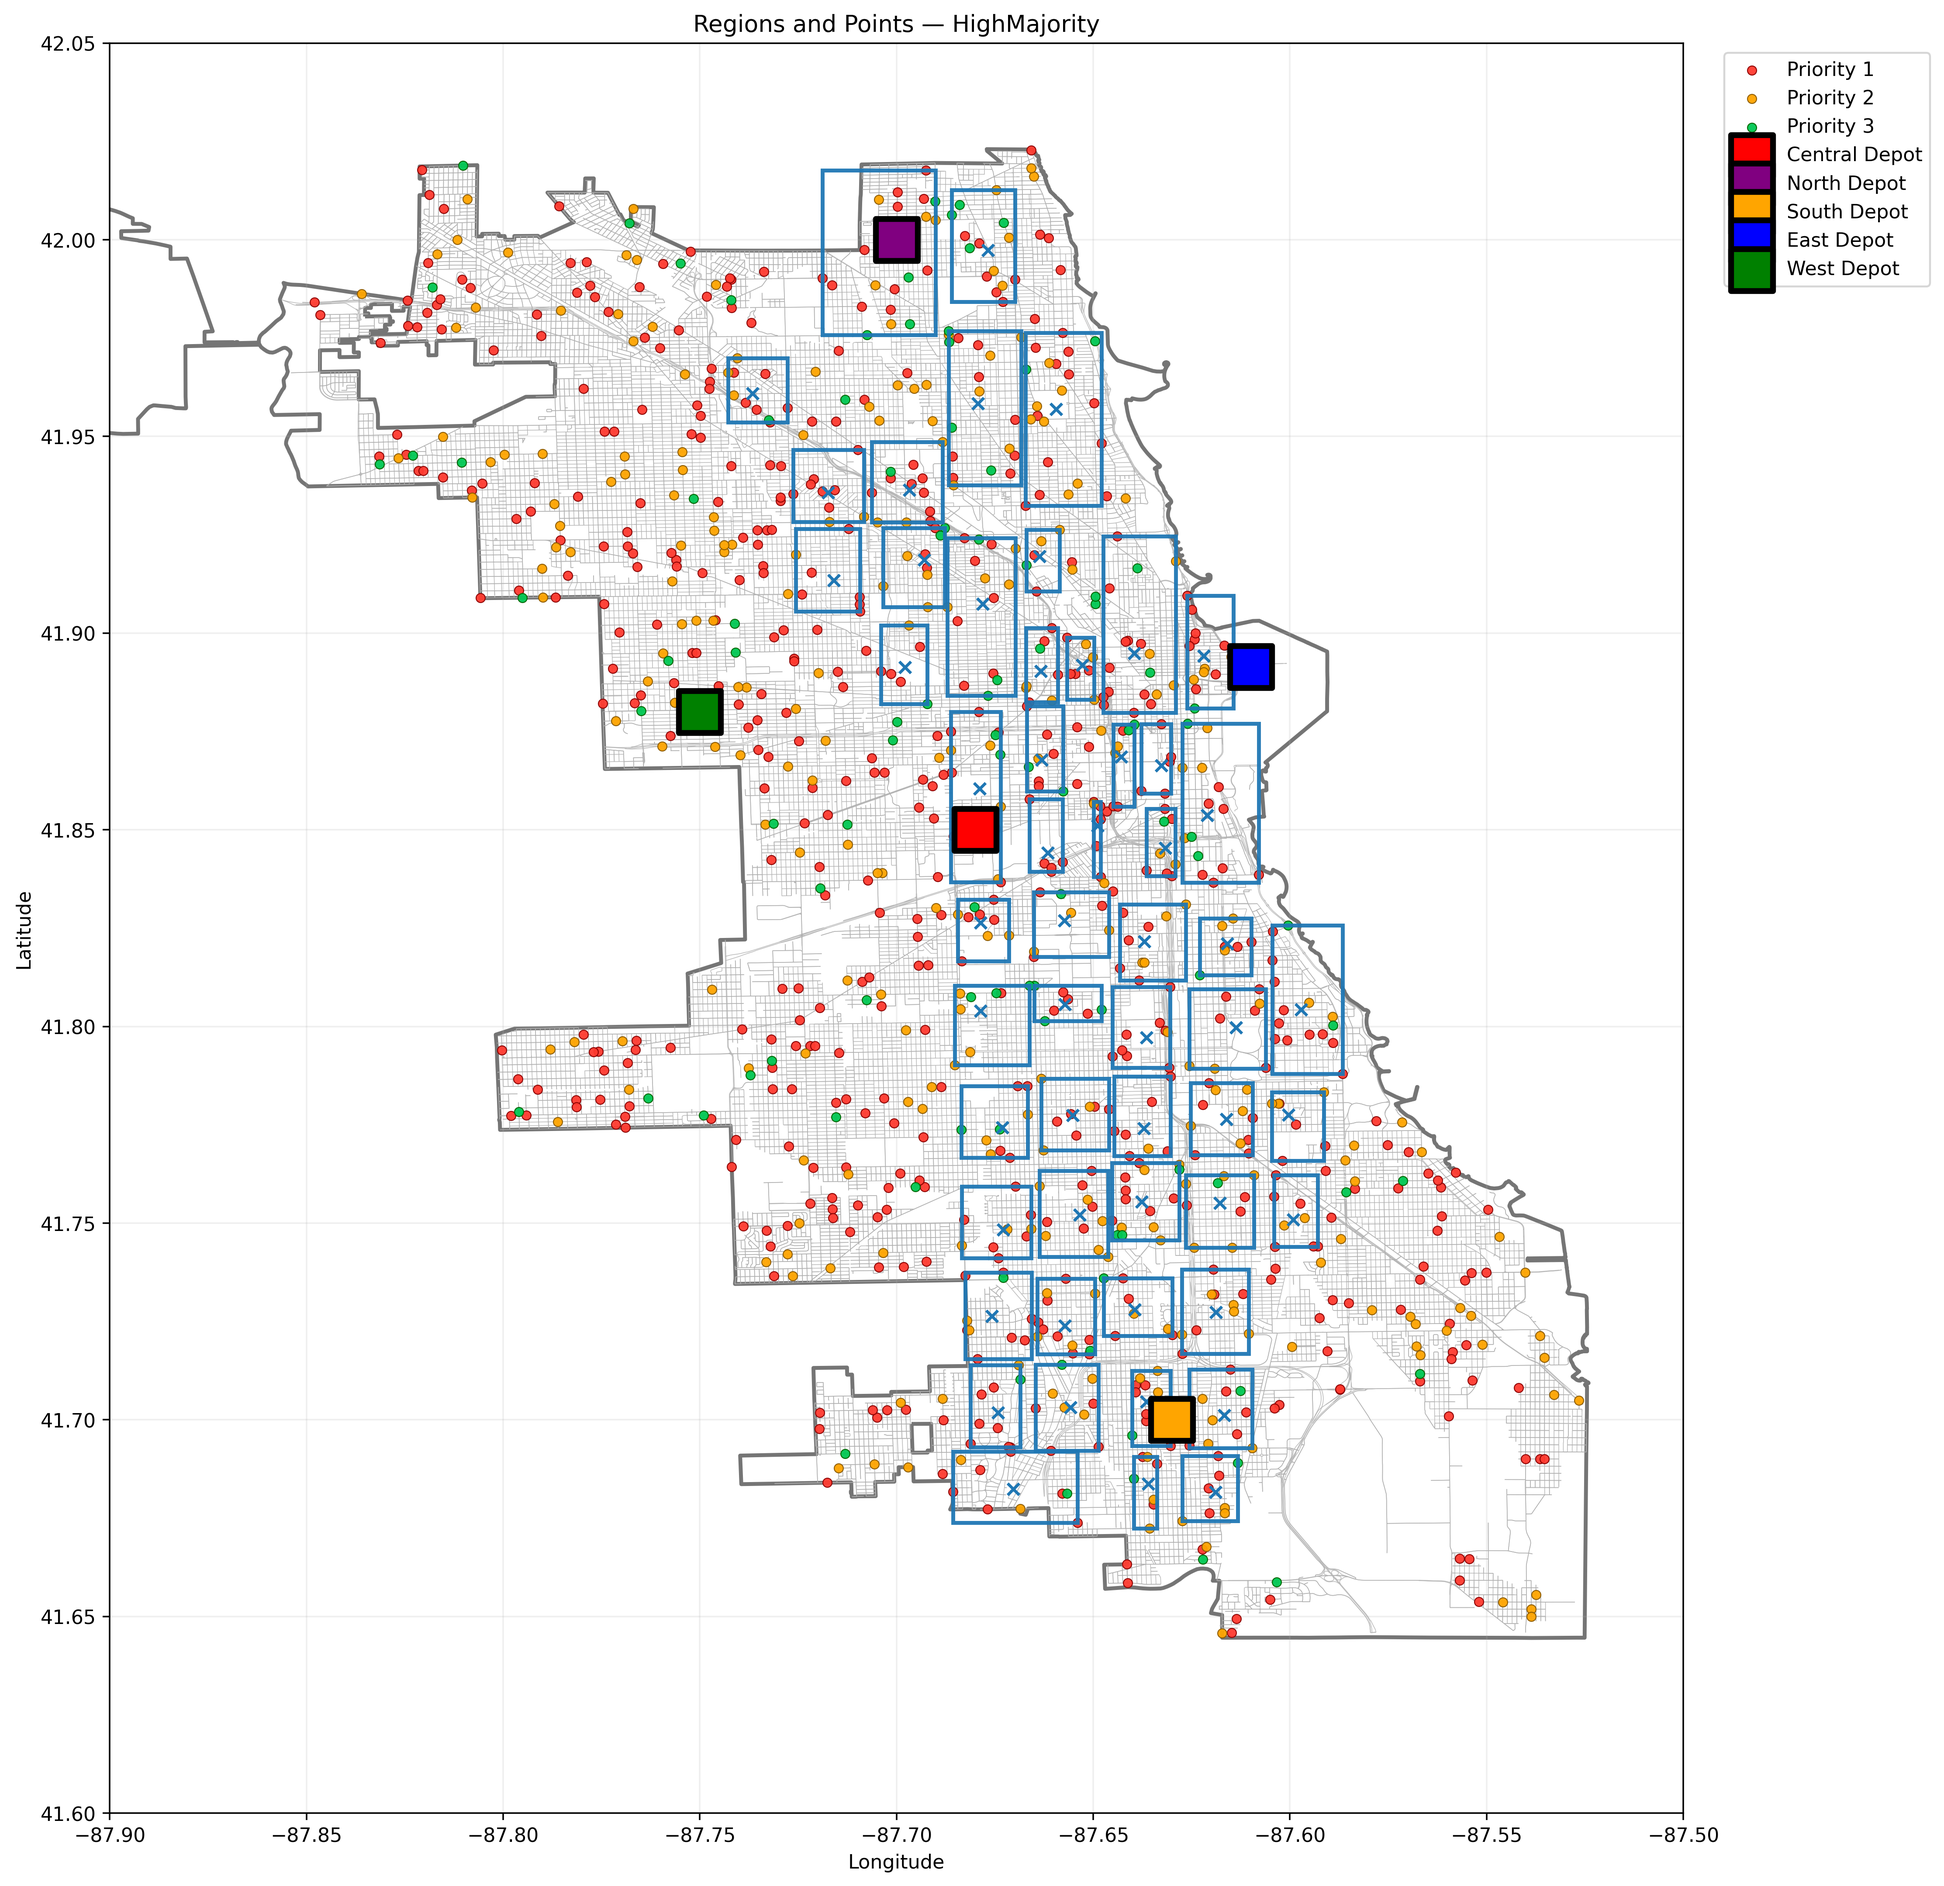
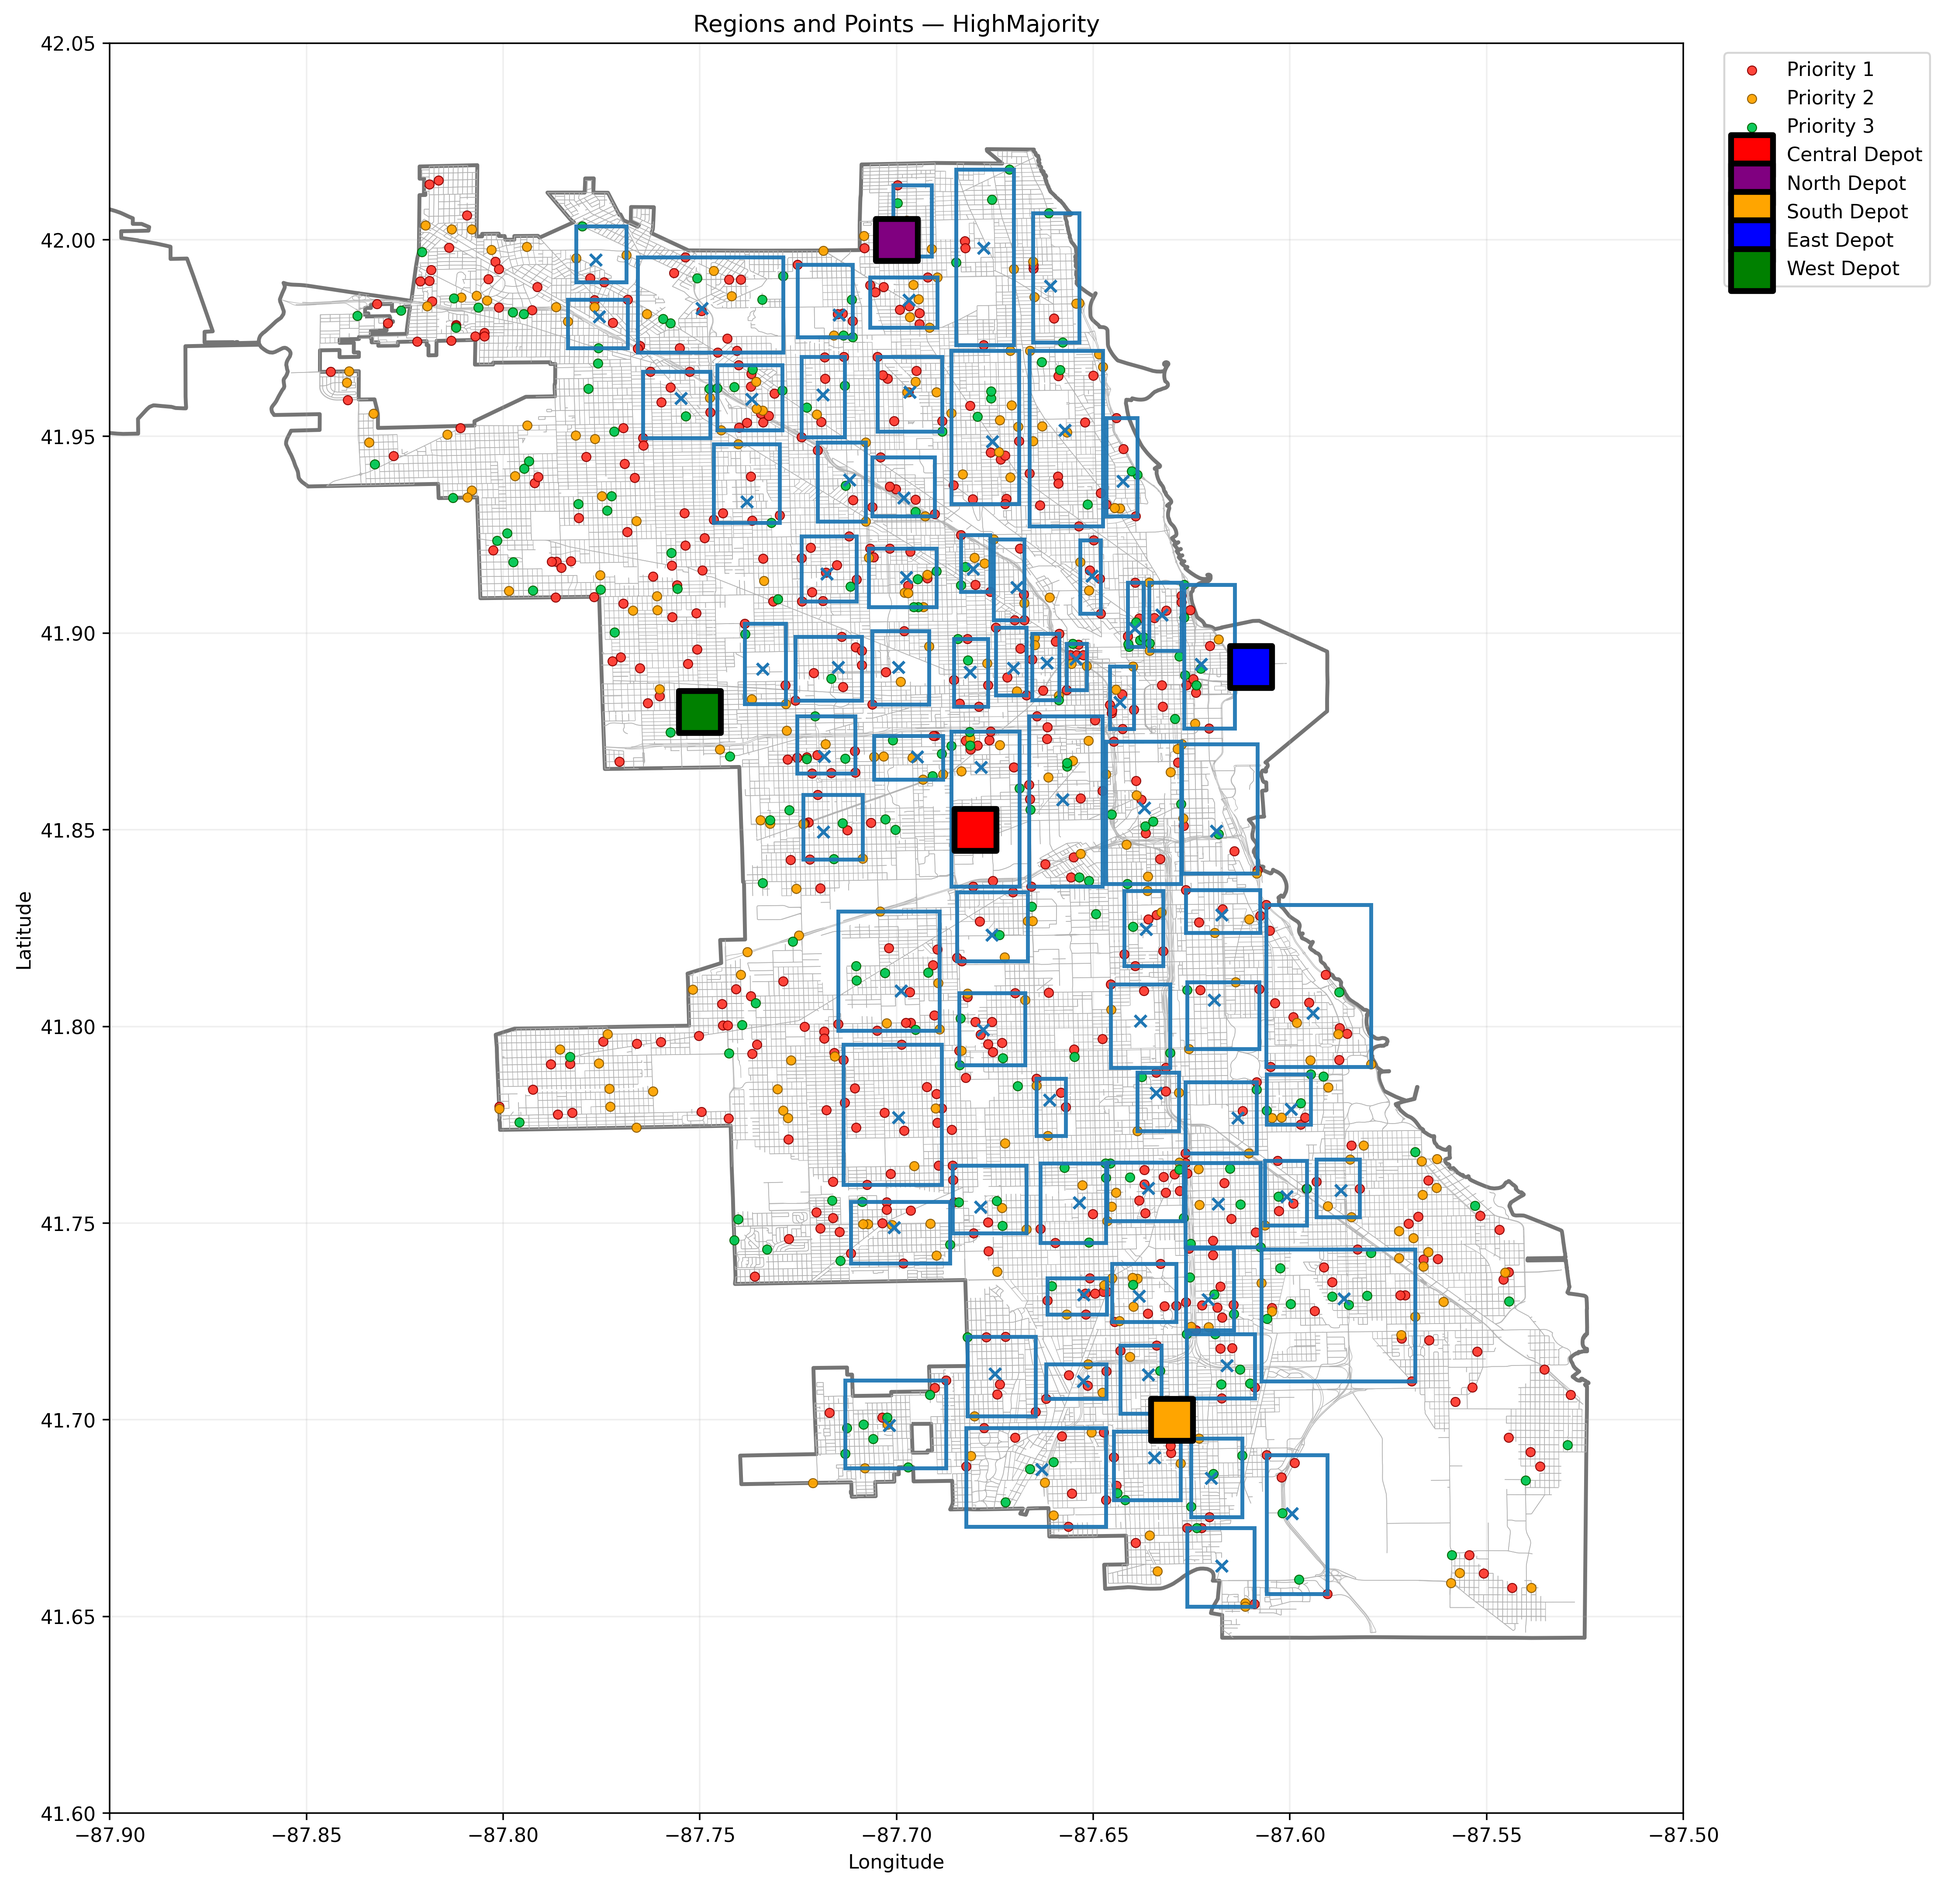
Final diving-and-conquer implementation Co-authored-by:Prashanna Raj Pandit <erprp99@gmail.com>

diff --git a/dataset/delivery points.py b/dataset/delivery points.py
@@ -73,55 +73,143 @@
 
 ######## Generating delivery points ###########
 
+######## Generating delivery points with distributions ###########
+
+# generate_delivery_points_variants.py
+# Generates multiple independent 1000-point delivery datasets per distribution.
+# Files: delivery_points_1000_<distribution>_v<1..5>.csv
+# Also writes generation_summary.csv with counts & percentages.
+
+# import os
+# import time
+# import random
+# import pandas as pd
+# import osmnx as ox
+
+# GRAPH_FILE = "chicago_street_network.graphml"
+
+# # Distributions: weights for priorities [P1, P2, P3]
+# DISTRIBUTIONS = {
+#     "equal":          [33, 33, 34],   # ~33% each
+#     "high_dominance": [50, 25, 25],   # P1 ~50%
+#     "low_dominance":  [25, 25, 50],   # P3 ~50%
+#     # Uncomment if you want a medium-dominance option:
+#     # "med_dominance":  [25, 50, 25], # P2 ~50%
+# }
+
+# # Which distributions to generate
+# DISTRIBUTIONS_TO_MAKE = ["equal", "high_dominance", "low_dominance"]
+
+# def generate_one_dataset(G, sample_size: int, weights: list[int], rng: random.Random):
+#     """Return a DataFrame of delivery points (lat, lon, priority) for one draw."""
+#     nodes_list = list(G.nodes())
+#     if sample_size > len(nodes_list):
+#         # Fallback: sample with replacement if graph is tiny (unlikely for Chicago)
+#         chosen_nodes = rng.choices(nodes_list, k=sample_size)
+#     else:
+#         chosen_nodes = rng.sample(nodes_list, sample_size)
+
+#     rows = []
+#     for node in chosen_nodes:
+#         rows.append({
+#             "node_id": node,
+#             "lat": G.nodes[node]["y"],
+#             "lon": G.nodes[node]["x"],
+#             "priority": rng.choices([1, 2, 3], weights=weights, k=1)[0]
+#         })
+#     return pd.DataFrame(rows)
+
+# def save_with_checks(df: pd.DataFrame, path: str):
+#     os.makedirs(os.path.dirname(path) or ".", exist_ok=True)
+#     df.to_csv(path, index=False)
+
+# def main(sample_size=1000, num_variants=5, out_dir=".", base_seed=20241004):
+#     print("Loading graph…")
+#     G = ox.load_graphml(GRAPH_FILE)
+#     print(f"Graph loaded with {len(G.nodes())} nodes, {len(G.edges())} edges.")
+
+#     summary_rows = []
+
+#     for dist_name in DISTRIBUTIONS_TO_MAKE:
+#         weights = DISTRIBUTIONS[dist_name]
+#         print(f"\n=== Generating {num_variants} datasets for '{dist_name}' "
+#               f"({sample_size} points each) ===")
+
+#         for i in range(1, num_variants + 1):
+#             # Reproducible RNG per variant & distribution
+#             seed = (base_seed * 1315423911) ^ hash((dist_name, i))
+#             rng = random.Random(seed)
+
+#             df = generate_one_dataset(G, sample_size, weights, rng)
+#             filename = os.path.join(out_dir, f"delivery_points_{sample_size}_{dist_name}_v{i}.csv")
+#             save_with_checks(df, filename)
+
+#             # Stats for summary
+#             counts = df["priority"].value_counts().reindex([1,2,3], fill_value=0)
+#             pcts = counts / len(df) * 100.0
+#             print(f"  [{dist_name} v{i}] saved → {filename} | "
+#                   f"P1={counts[1]}({pcts[1]:.1f}%), "
+#                   f"P2={counts[2]}({pcts[2]:.1f}%), "
+#                   f"P3={counts[3]}({pcts[3]:.1f}%)")
+
+#             summary_rows.append({
+#                 "file": os.path.basename(filename),
+#                 "distribution": dist_name,
+#                 "sample_size": len(df),
+#                 "P1_count": int(counts[1]),
+#                 "P2_count": int(counts[2]),
+#                 "P3_count": int(counts[3]),
+#                 "P1_pct": round(pcts[1], 2),
+#                 "P2_pct": round(pcts[2], 2),
+#                 "P3_pct": round(pcts[3], 2),
+#                 "seed": seed,
+#             })
+
+#     summary_path = os.path.join(out_dir, "generation_summary.csv")
+#     pd.DataFrame(summary_rows).to_csv(summary_path, index=False)
+#     print(f"\nWrote summary: {summary_path}")
+
+# if __name__ == "__main__":
+#     # Change DISTRIBUTIONS_TO_MAKE above if you want only one distribution.
+#     # Example for “just 5 for 1000” total (not per distribution):
+#     # DISTRIBUTIONS_TO_MAKE = ["equal"]  # <- then you’ll get exactly 5 datasets.
+#     main(sample_size=1000, num_variants=5, out_dir=".")
+
+
+
+# generate_random_nodes.py
+# Makes 5 independent datasets of 1,000 randomly sampled street nodes from Chicago.
+# Columns: node_id, lat, lon  (no priority column)
+
+import os
 import random
 import pandas as pd
 import osmnx as ox
 
-DISTRIBUTION={
-    "equal":[33,33,34],
-    "high_dominance":[50,25,25],
-    "low_dominance":[25,25,50],
-    "med_dominance":[25,50,25]
-}
+GRAPH_FILE = "chicago_street_network.graphml"
 
-def generate_delivery_points(sample_size=1000,distribution="equal"):
-    # Load graph
-    G = ox.load_graphml("chicago_street_network.graphml")
+def generate_random_nodes(G, sample_size: int, rng: random.Random) -> pd.DataFrame:
+    nodes = list(G.nodes())
+    if sample_size > len(nodes):
+        chosen = rng.choices(nodes, k=sample_size)       # fallback: with replacement
+    else:
+        chosen = rng.sample(nodes, sample_size)          # without replacement
+    rows = [{"node_id": n, "lat": G.nodes[n]["y"], "lon": G.nodes[n]["x"]} for n in chosen]
+    return pd.DataFrame(rows)
 
-    # Pick 1000 random nodes as delivery points
-    delivery_nodes = random.sample(list(G.nodes()), sample_size)
+def main(sample_size=1000, num_variants=5, out_dir=".", base_seed=20241004):
+    os.makedirs(out_dir, exist_ok=True)
+    print("loading graph…")
+    G = ox.load_graphml(GRAPH_FILE)
+    print(f"graph: {len(G.nodes())} nodes, {len(G.edges())} edges")
 
-    # Convert to dataframe
-    delivery_data = []
-    for node in delivery_nodes:
-        delivery_data.append({
-            "node_id": node,
-            "lat": G.nodes[node]['y'],
-            "lon": G.nodes[node]['x'],
-            # Assign random priority: 1 = High, 2 = Medium, 3 = Low
-            "priority": random.choices([1, 2, 3],weights=DISTRIBUTION[distribution])[0]
-        })
-
-    df = pd.DataFrame(delivery_data)
-
-    # Save to CSV
-    df.to_csv("delivery_points.csv", index=False)
-
-    # Print sample data
-    print("Sample Delivery Points:")
-    print(df.head())
-
-    # Print statistics
-    print("\nDataset Statistics:")
-    print(df.describe(include='all'))
-
-    # Priority distribution
-    print("\nPriority Distribution:")
-    print(df['priority'].value_counts())
-
-# How to use ?
-# generate_delivery_points(sample_size=100,distribution="high_dominance")
-
+    for i in range(1, num_variants + 1):
+        seed = (base_seed * 2654435761) ^ i
+        rng = random.Random(seed)
+        df = generate_random_nodes(G, sample_size, rng)
+        path = os.path.join(out_dir, f"delivery_points_{sample_size}_v{i}.csv")
+        df.to_csv(path, index=False)
+        print(f"[v{i}] saved {path} (rows={len(df)})")
 
 if __name__ == "__main__":
-    generate_delivery_points(sample_size=100, distribution="equal")
+    main(sample_size=1000, num_variants=5, out_dir=".")

diff --git a/experiment3.py b/experiment3.py
@@ -31,8 +31,8 @@ GRAPH_FILE = "chicago_street_network.graphml"
 
 DATASETS = {
     "Equal":        "delivery_points_1000_equal.csv",
-    "HighMajority": "delivery_points_1000_high_majority.csv",
-    "LowMajority":  "delivery_points_1000_low_majority.csv",
+    "HighMajority": "delivery_points_1000_high_dominance.csv",
+    "LowMajority":  "delivery_points_1000_low_dominance.csv",
 }
 
 MAX_POINTS_PER_REGION_DEFAULT = 22
